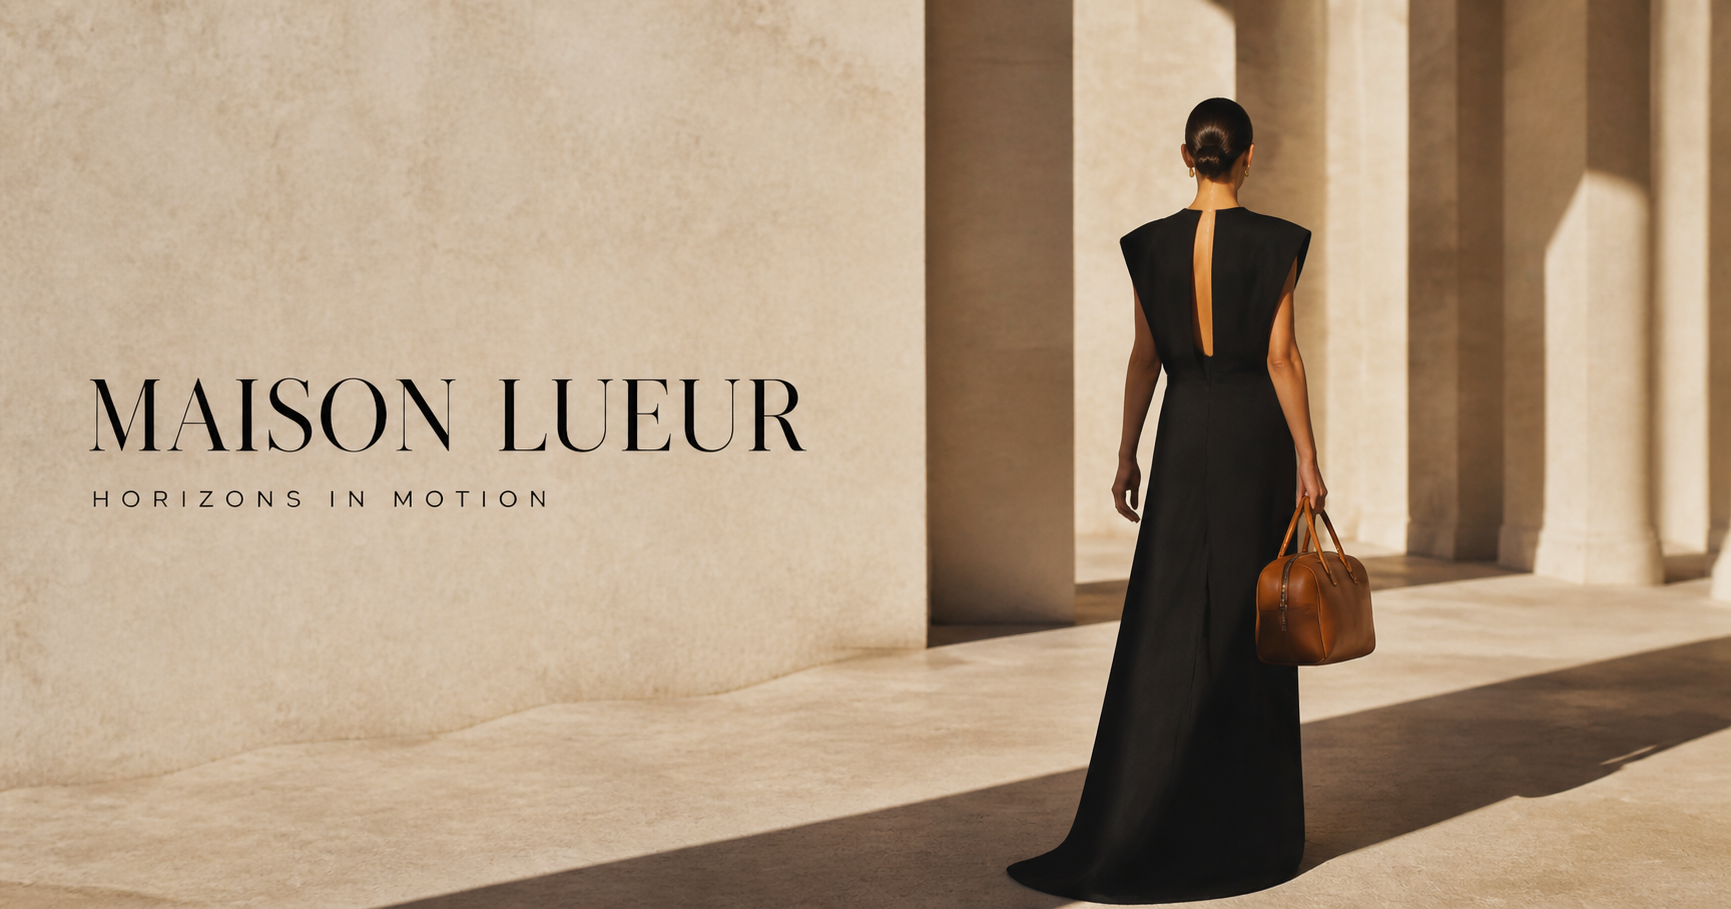
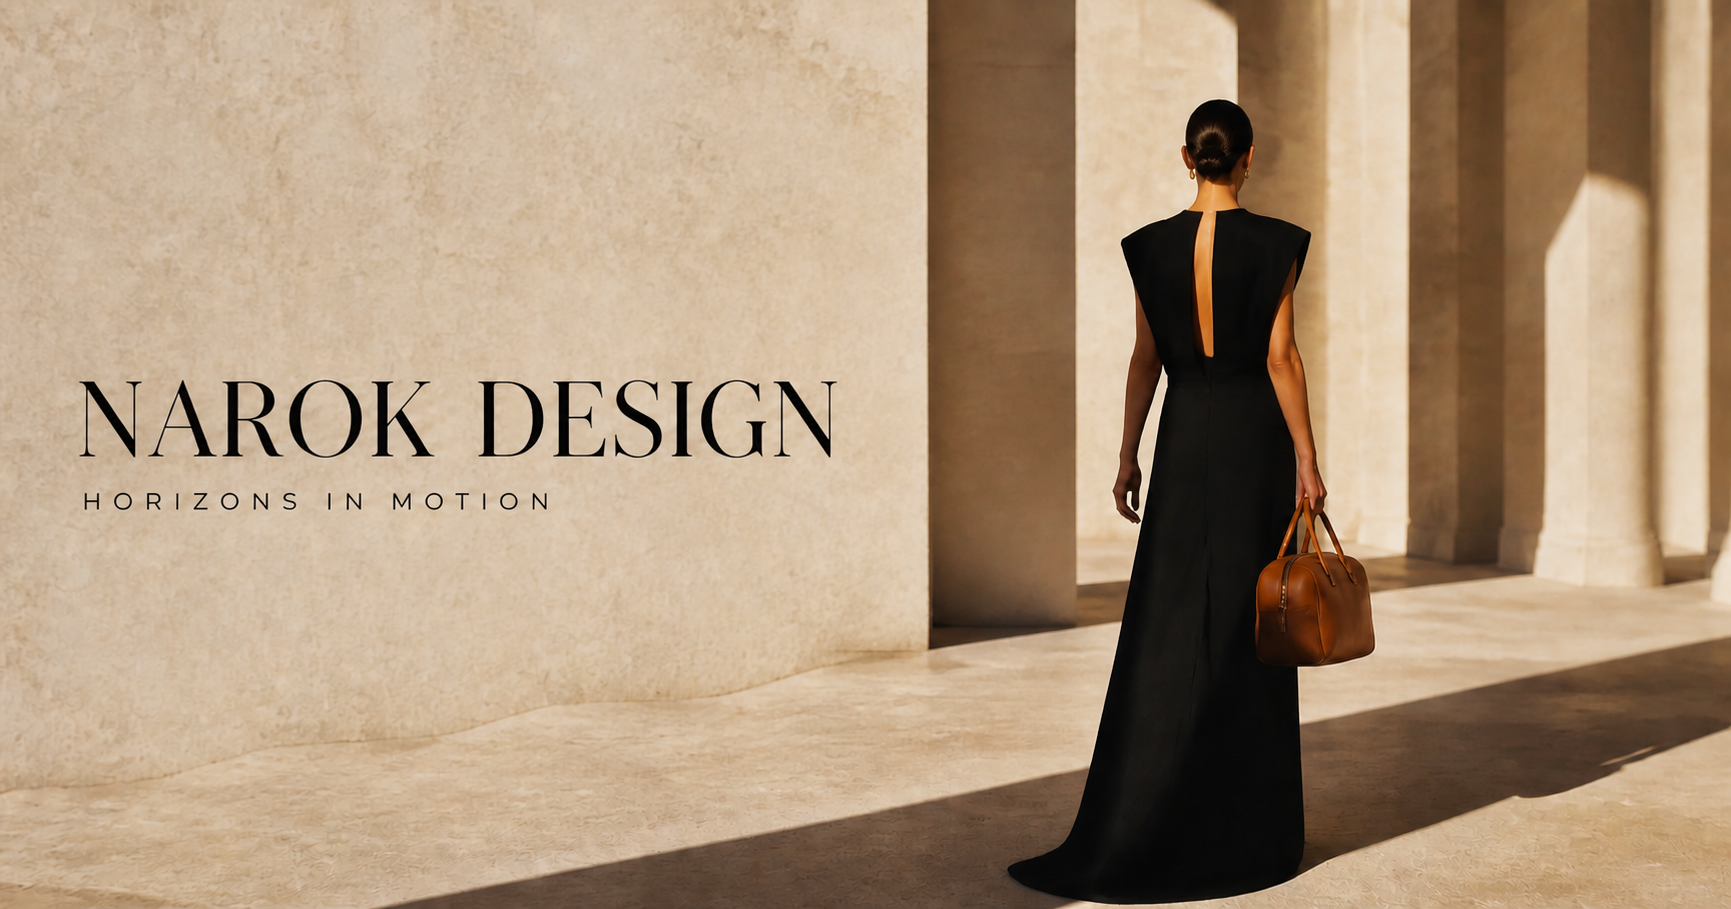
Rename brand to Narok Design and simplify menu

diff --git a/app/page.tsx b/app/page.tsx
@@ -11,7 +11,7 @@ const products = [
     tone: "sand",
   },
   {
-    name: "Lueur No. 7",
+    name: "Narok No. 7",
     detail: "Eau de parfum · 100 ml",
     price: "$320",
     image: "https://images.unsplash.com/photo-1541643600914-78b084683601?auto=format&fit=crop&w=1200&q=90",
@@ -86,7 +86,7 @@ export default function Home() {
         <button className="header-action menu-trigger" onClick={() => setMenuOpen(true)} aria-label="Open menu">
           <span className="menu-lines" aria-hidden="true"><i /><i /></span> Menu
         </button>
-        <a className="wordmark" href="#top" aria-label="Maison Lueur home">MAISON LUEUR</a>
+        <a className="wordmark" href="#top" aria-label="Narok Design home">NAROK DESIGN</a>
         <div className="header-actions">
           <button className="header-action" onClick={() => setSearchOpen(true)} aria-label="Search">Search</button>
           <button className="header-action" onClick={() => setCartOpen(true)} aria-label={`Shopping bag with ${bag.length} items`}>
@@ -163,7 +163,7 @@ export default function Home() {
 
       <section className="journal" id="journal">
         <div className="section-heading left-heading">
-          <p className="eyebrow dark">Maison stories</p>
+          <p className="eyebrow dark">Narok Design stories</p>
           <h2>The journal</h2>
         </div>
         <div className="editorial-grid">
@@ -182,7 +182,7 @@ export default function Home() {
 
       <section className="services" id="services">
         <div className="section-heading">
-          <p className="eyebrow dark">The Maison at your service</p>
+          <p className="eyebrow dark">Narok Design at your service</p>
           <h2>A considered experience</h2>
         </div>
         <div className="service-grid">
@@ -195,7 +195,7 @@ export default function Home() {
       <footer>
         <div className="footer-top">
           <div>
-            <p className="eyebrow">The Lueur letter</p>
+            <p className="eyebrow">The Narok Design letter</p>
             <h2>Stories, objects and invitations.</h2>
           </div>
           {subscribed ? (
@@ -209,25 +209,24 @@ export default function Home() {
         </div>
         <div className="footer-links">
           <div><h3>Client services</h3><a href="#services">Contact us</a><a href="#services">Delivery & returns</a><a href="#services">Book an appointment</a></div>
-          <div><h3>The Maison</h3><a href="#story">Our story</a><a href="#story">Craftsmanship</a><a href="#journal">Journal</a></div>
+          <div><h3>Narok Design</h3><a href="#story">Our story</a><a href="#story">Craftsmanship</a><a href="#journal">Journal</a></div>
           <div><h3>Follow</h3><a href="#top">Instagram</a><a href="#top">Pinterest</a><a href="#top">WeChat</a></div>
           <div className="locale"><h3>Shipping to</h3><button>United States · EN <span>⌄</span></button></div>
         </div>
-        <div className="footer-bottom"><a className="wordmark" href="#top">MAISON LUEUR</a><p>© 2026 Maison Lueur</p><div><a href="#top">Privacy</a><a href="#top">Legal</a><a href="#top">Accessibility</a></div></div>
+        <div className="footer-bottom"><a className="wordmark" href="#top">NAROK DESIGN</a><p>© 2026 Narok Design</p><div><a href="#top">Privacy</a><a href="#top">Legal</a><a href="#top">Accessibility</a></div></div>
       </footer>
 
       <div className={`panel-backdrop ${menuOpen || searchOpen || cartOpen ? "visible" : ""}`} onClick={() => { setMenuOpen(false); setSearchOpen(false); setCartOpen(false); }} />
 
       <aside className={`side-panel menu-panel ${menuOpen ? "open" : ""}`} aria-hidden={!menuOpen}>
         <button className="panel-close" onClick={() => setMenuOpen(false)} aria-label="Close menu">×</button>
-        <p className="panel-label">Explore</p>
-        <nav><a href="#collection" onClick={() => setMenuOpen(false)}>New arrivals <span>01</span></a><a href="#collection" onClick={() => setMenuOpen(false)}>Women <span>02</span></a><a href="#men" onClick={() => setMenuOpen(false)}>Men <span>03</span></a><a href="#collection" onClick={() => setMenuOpen(false)}>Travel <span>04</span></a><a href="#collection" onClick={() => setMenuOpen(false)}>Gifts <span>05</span></a></nav>
-        <div className="panel-meta"><a href="#services">Book an appointment</a><a href="#services">Find a store</a></div>
+        <p className="panel-label">Menu</p>
+        <nav><a href="#collection" onClick={() => setMenuOpen(false)}>Shop <span>01</span></a><a href="#journal" onClick={() => setMenuOpen(false)}>Collection <span>02</span></a><a href="#services" onClick={() => setMenuOpen(false)}>Custom Orders <span>03</span></a><a href="#story" onClick={() => setMenuOpen(false)}>About <span>04</span></a></nav>
       </aside>
 
       <aside className={`side-panel search-panel ${searchOpen ? "open" : ""}`} aria-hidden={!searchOpen}>
         <button className="panel-close" onClick={() => setSearchOpen(false)} aria-label="Close search">×</button>
-        <p className="panel-label">Search the Maison</p>
+        <p className="panel-label">Search Narok Design</p>
         <form onSubmit={(e) => { e.preventDefault(); setSearchOpen(false); document.getElementById("collection")?.scrollIntoView(); }}>
           <input autoFocus={searchOpen} aria-label="Search" placeholder="What are you looking for?" />
           <button>→</button>

diff --git a/app/layout.tsx b/app/layout.tsx
@@ -18,13 +18,13 @@ export async function generateMetadata(): Promise<Metadata> {
   const host = requestHeaders.get("x-forwarded-host") ?? requestHeaders.get("host") ?? "localhost:3000";
   const protocol = requestHeaders.get("x-forwarded-proto") ?? (host.startsWith("localhost") ? "http" : "https");
   const image = `${protocol}://${host}/og.png`;
-  const title = "Maison Lueur — The Art of the Journey";
-  const description = "A contemporary vision of leather, fashion, fragrance and the art of travel.";
+  const title = "NAROK DESIGN — The Art of the Journey";
+  const description = "Narok Design presents a contemporary vision of leather, fashion, fragrance and the art of travel.";
 
   return {
     title,
     description,
-    openGraph: { title, description, type: "website", images: [{ url: image, width: 1792, height: 928, alt: "Maison Lueur — Horizons in Motion" }] },
+    openGraph: { title, description, type: "website", images: [{ url: image, width: 1792, height: 928, alt: "Narok Design — Horizons in Motion" }] },
     twitter: { card: "summary_large_image", title, description, images: [image] },
   };
 }
